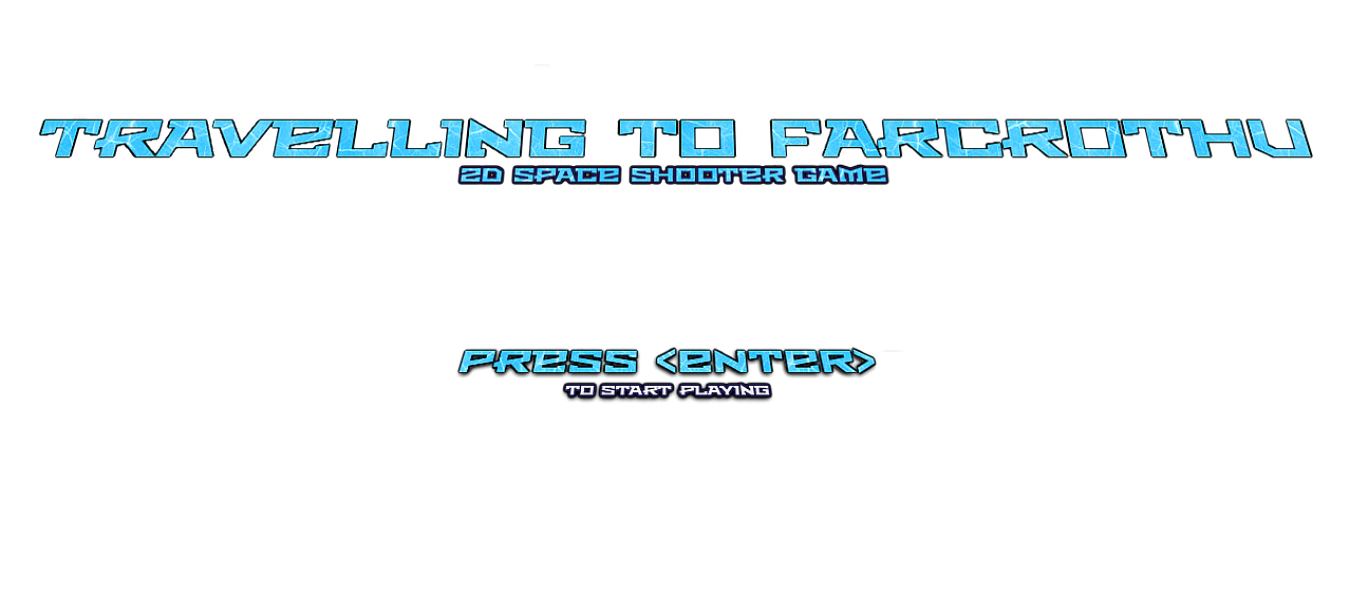
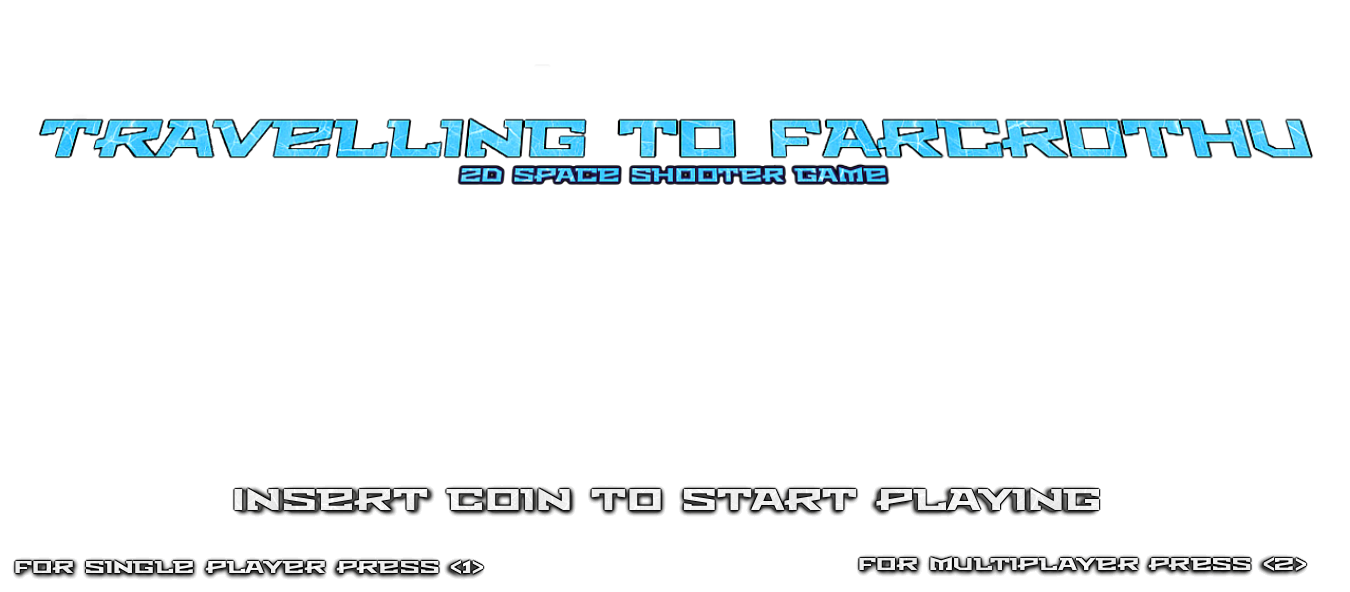
Music volume fixed + new game menu image

diff --git a/SpaceShipFarcrothu/Core/GameEngine.cs b/SpaceShipFarcrothu/Core/GameEngine.cs
@@ -70,17 +70,17 @@ namespace SpaceShipFartrothu.Core
         protected override void LoadContent()
         {
             this.spriteBatch = new SpriteBatch(this.GraphicsDevice);
-            this.hud.LoadContent(this.Content);          
+            this.hud.LoadContent(this.Content);
             //this.player.LoadContent(this.Content);     
             //this.player2.LoadContent(this.Content);     
             this.starfield.LoadContent(this.Content);
             this.soundManager.LoadContent(this.Content);
 
+            MediaPlayer.Play(this.soundManager.intro);
+
             this.menuImage = this.Content.Load<Texture2D>("menu_image");
             this.gameoverImage = this.Content.Load<Texture2D>("gameover_image");
             this.winningImage = this.Content.Load<Texture2D>("winning_image");
-
-            MediaPlayer.Play(this.soundManager.intro);
         }
 
         protected override void UnloadContent()
@@ -150,6 +150,7 @@ namespace SpaceShipFartrothu.Core
                         this.twoPlayersMode = true;
                         this.gameState = State.Playing;
                         MediaPlayer.Play(this.soundManager.bgMusic);
+                        MediaPlayer.Volume = 0.5f;
                     }
 
                     if (keyState.IsKeyDown(Keys.D1))
@@ -159,6 +160,7 @@ namespace SpaceShipFartrothu.Core
                         this.twoPlayersMode = false;
                         this.gameState = State.Playing;
                         MediaPlayer.Play(this.soundManager.bgMusic);
+                        MediaPlayer.Volume = 0.5f;
                     }
 
                     this.starfield.Update(gameTime);
@@ -178,10 +180,10 @@ namespace SpaceShipFartrothu.Core
                         this.asteroids.Clear();
                         this.explosionList.Clear();
 
-                        this.player.health = 200;                     
-                        this.player.isAlive = true;                        
+                        this.player.health = 200;
+                        this.player.isAlive = true;
                         this.hud.playerscore = 0;
-                        
+
                         this.bossHasInstance = false;
 
                         if (twoPlayersMode)
@@ -337,8 +339,8 @@ namespace SpaceShipFartrothu.Core
                     {
                         this.soundManager.explodeSound.Play();
                         this.explosionList.Add(new Explosion(this.Content.Load<Texture2D>("explosion"),
-                            new Vector2(this.boss.position.X + this.boss.texture.Height/2,
-                                this.boss.position.Y + this.boss.texture.Width/2)));
+                            new Vector2(this.boss.position.X + this.boss.texture.Height / 2,
+                                this.boss.position.Y + this.boss.texture.Width / 2)));
                         // this.hud.player2score += 20;
                         this.player2.bulletList[i].IsVisible = false;
                         this.boss.health -= 2;
